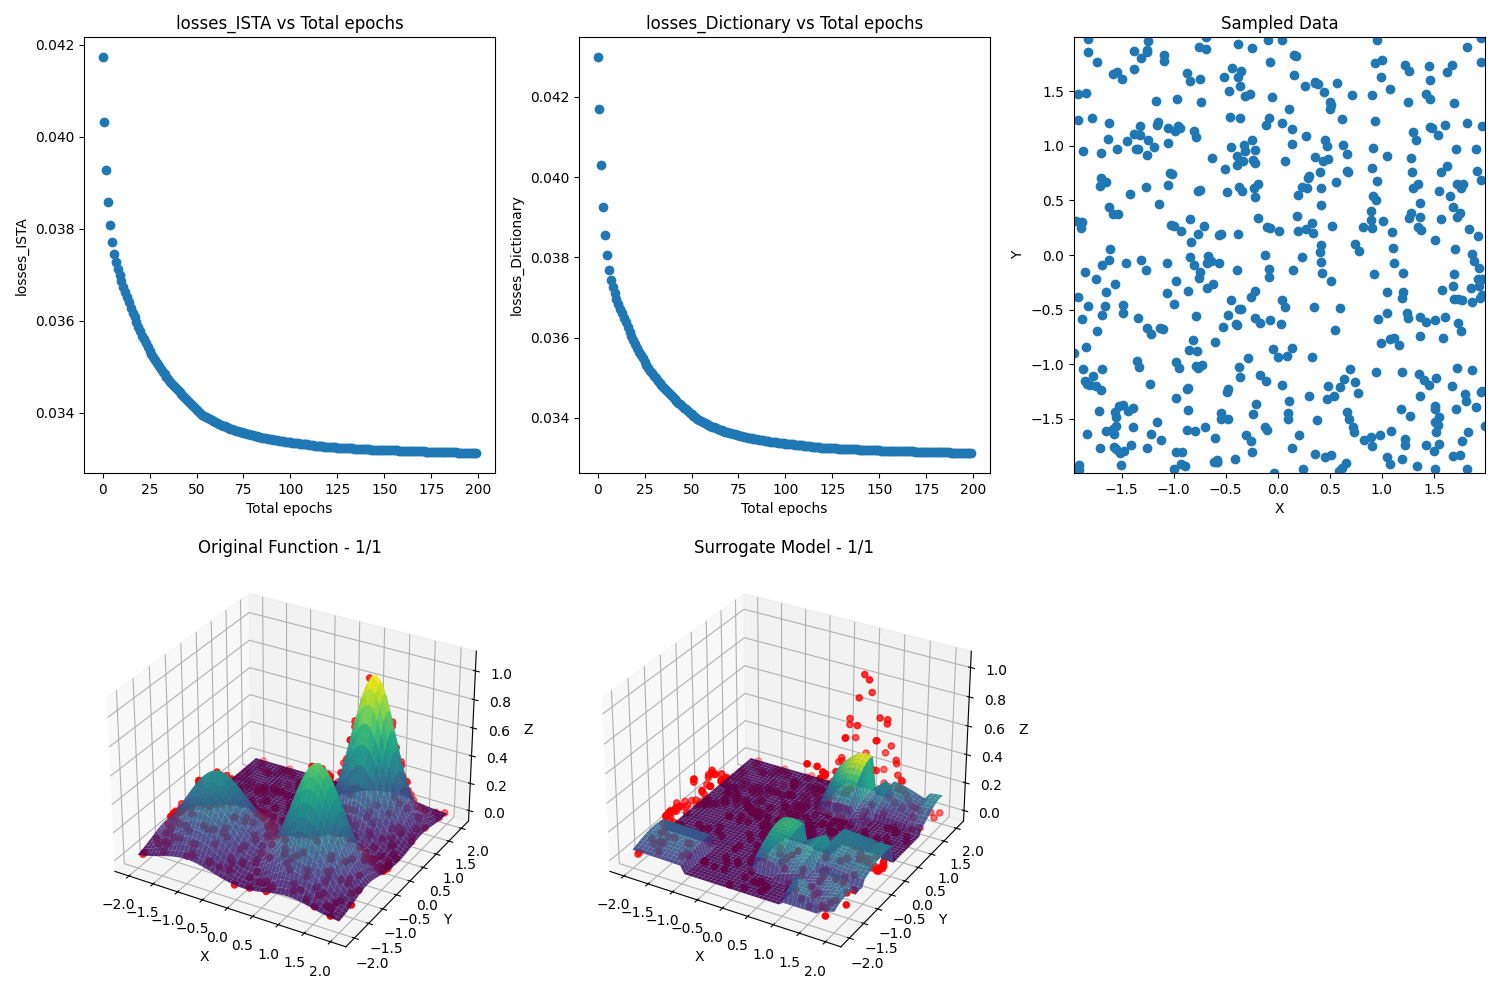
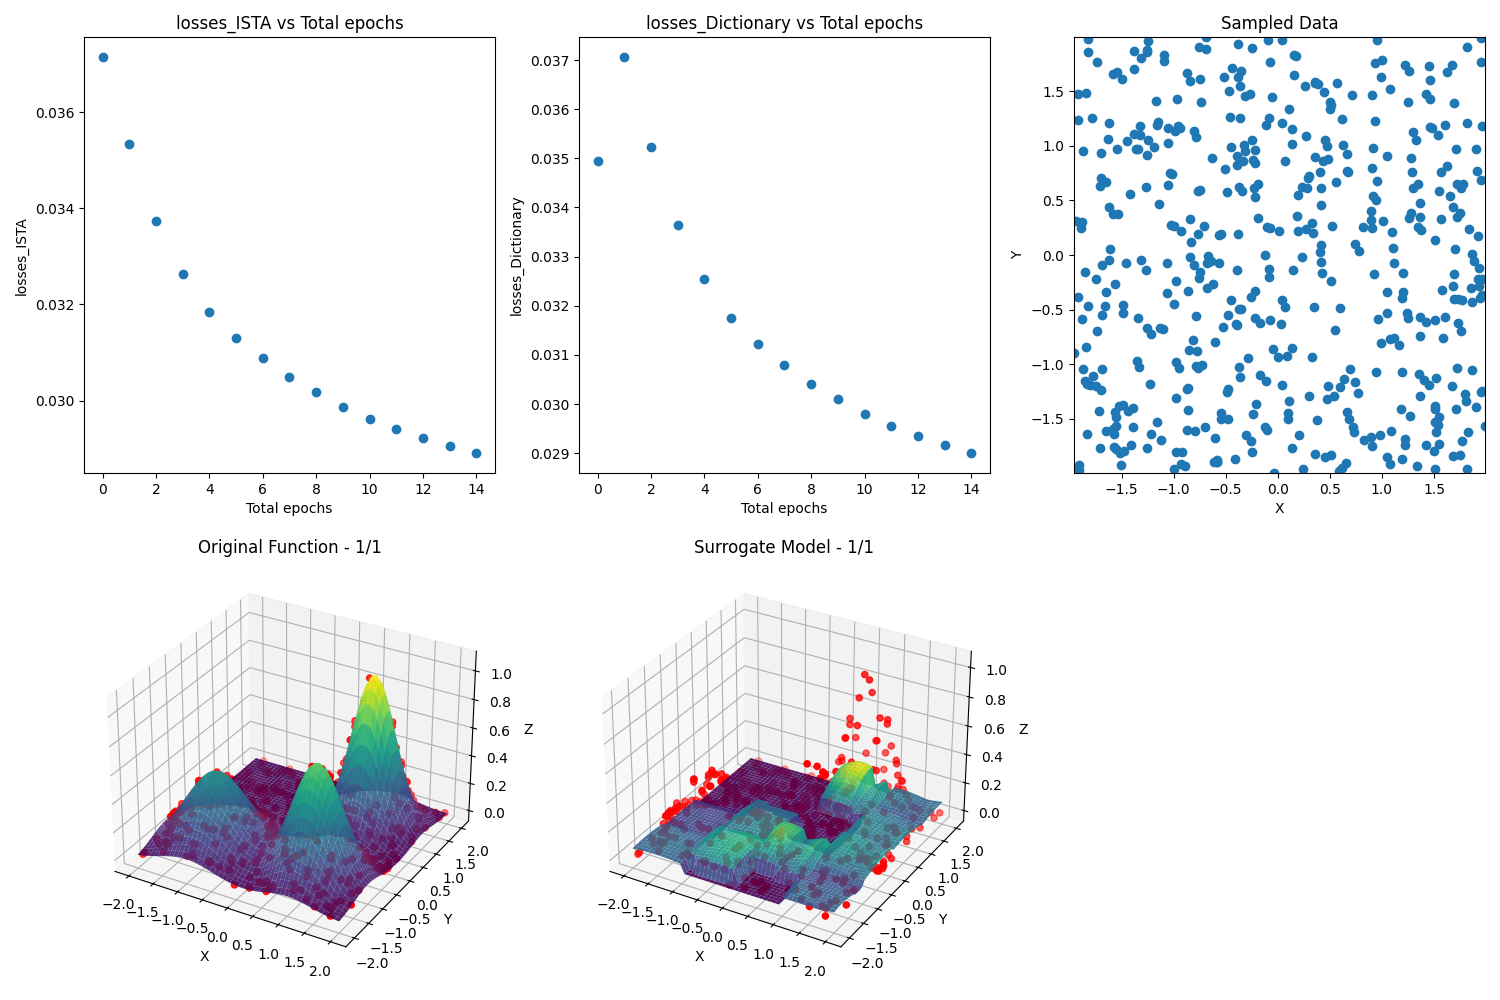
feat: Graphics are now solved

diff --git a/pysesm/models/Blocks/UniformPartitionManager.py b/pysesm/models/Blocks/UniformPartitionManager.py
@@ -61,6 +61,8 @@ class UniformPartitionManager(BlockManager):
         # TODO: Find efficient way to find block
         for index in np.ndindex(self.blocks.shape):
             if self.blocks[index].is_point_in_block(X):
+                print("POINT", X, "is inside block", self.blocks[index].block_scope)
+
                 return self.blocks[index]
         print("Could not find a block for point", X)
         return None
@@ -93,7 +95,7 @@ class UniformPartitionManager(BlockManager):
             new_max_x = torch.max(X)
             new_min_x = torch.min(X)
 
-    def _configure_blocks(self):
+    def _configure_blocks(self, init_h: bool = True):
         """
         Configures the blocks with their expected squeeze factor
         """
@@ -101,8 +103,9 @@ class UniformPartitionManager(BlockManager):
             block = self.blocks[index]
             if len(block.y) != 0:
                 block.amplitude = squeeze_factor(block.y)
-                block.h = torch.nn.Parameter(torch.rand(self.n_functions), requires_grad=True)
-                block.h.data /= block.h.data.sum()
+                if init_h:
+                    block.h = torch.nn.Parameter(torch.rand(self.n_functions), requires_grad=True)
+                    block.h.data /= block.h.data.sum()
                 block.target = [value * block.amplitude for value in block.y]
 
     def _data_mapping(self, X: torch.Tensor):
@@ -171,6 +174,7 @@ class UniformPartitionManager(BlockManager):
         # Map and normalize points into test blocks
         self._map_points(X, y)
         self._vectorized_normalization(self.blocks)
+        self._configure_blocks(init_h=False)
 
         # Retrieved mapped test blocks and return to usual blocks
         test_active_blocks = self.retrieve_active_blocks()

diff --git a/pysesm/models/BSESM/BSESM.py b/pysesm/models/BSESM/BSESM.py
@@ -103,7 +103,6 @@ class BSESM(SESM):
                     , dtype=torch.float32)
                 ])
             )
-
             filled_active_blocks_y += block.target + [0 for _ in range(max_points_in_block - len(block.target))]
 
         filled_active_blocks_X = torch.cat(filled_active_blocks_X)
@@ -162,9 +161,6 @@ class BSESM(SESM):
             for pos in block.positions:
                 y_pred_per_block[pos] = y_pred[i]
                 i += 1
-            # y_pred_per_block += y_pred[index * max_points_in_block: (index * max_points_in_block) + len(
-            #     block.y)] * block.amplitude
-            # features.extend(torch.stack(block.X) * block.block_scope[1] + block.block_scope[0])
         y_pred_per_block = torch.tensor(y_pred_per_block, dtype=torch.float32)
 
         for i in range(len(y)):

diff --git a/examples/test_redefine.py b/examples/test_redefine.py
@@ -29,7 +29,7 @@ experiment_1 = {
     "dictionary_alpha": 0.08928,
     "rho_epochs": 50,
     "mu_epochs": 50,
-    "model_epochs": 200,
+    "model_epochs": 15,
     "dict_epochs": 50,
     "ista_epochs": 50,
     "T": 4,

diff --git a/pysesm/models/Blocks/PartitionBlock.py b/pysesm/models/Blocks/PartitionBlock.py
@@ -48,7 +48,7 @@ class PartitionBlock:
 
     def normalize(self):
         tensor_X = torch.stack(self.X)
-        self.normalized_X = (tensor_X - self.block_scope[0])/self.block_scope[1]
+        self.normalized_X = (tensor_X - self.block_scope[0])/self.block_size
 
     def clone_test(self):
         cloned_block = PartitionBlock.__new__(PartitionBlock)